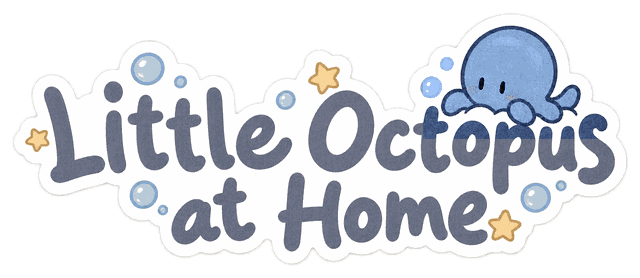
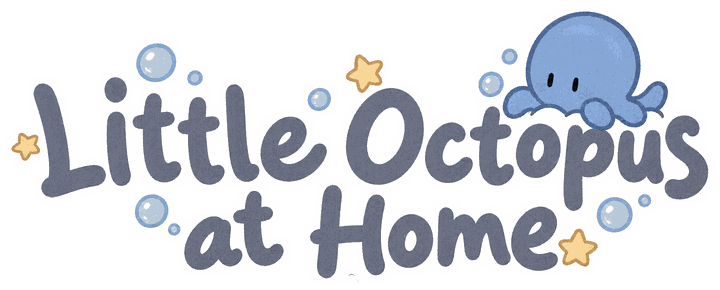
贴纸标题重做：只给小章鱼换色，白边改细 (#205)
Claude-Session: https://claude.ai/code/session_0168WBTWTpGzYg7UzgvL78fi

Changed region(s): [[0.0, 0.0288, 1.0, 0.9784], [0.4375, 0.6906, 0.4688, 0.7194], [0.0938, 0.6906, 0.125, 0.7194]]

diff --git a/docs/worklog.md b/docs/worklog.md
@@ -13,6 +13,11 @@
 
 ## 日志
 
+### 2026-10-19 · cc · 贴纸标题重做；一版贴纸改成透明膜的样子（还是效果图）
+- 标题 `title.png` 上次给小章鱼换色时按矩形框选，把「Octopus」上半截也染蓝了：从原图重做，只按小章鱼的形状换色（比字亮、灰一点，泡泡偏青不算），触手也换了；白边从原来很宽的米黄底改成贴着字的一圈细白边
+- 效果图：纸卡改成透明膜（几乎透明、边上一道亮线、一道斜反光，能看见后面的底），贴纸本身的白边不变；爱心挪开不挨着标题
+- **还剩**：同上一条，功能还没做
+
 ### 2026-10-19 · cc · 第一组贴纸「Little Octopus at Home」素材整理好了（功能还没做）
 - 她要做「记录」页（日记本 + 日历）和贴纸（能贴在日记、聊天对话框、共读便利贴上，他也会偶尔贴）。商量定的：日记他为主、她也能写；他想贴就贴、偶尔一次；主页日历搬进「记录」；第一组贴纸她发给 cc 放进仓库（她知道仓库公开）
 - 素材在 `public/stickers/octopus/`：标题 + 9 只小章鱼（`index.json` 里有中文名），按她的要求统一了颜色（身体统一成更浅的 #86a7d8，描边 #2c4068，米黄边改白，标题上的小章鱼也改成蓝的），去掉了边上的碎点、裁边、压到每张 20 KB 左右；`deco/` 是同样画法的小装饰（星星、闪光、圆点、泡泡、雨滴、云、爱心、月亮，SVG，外面一圈白切边）
